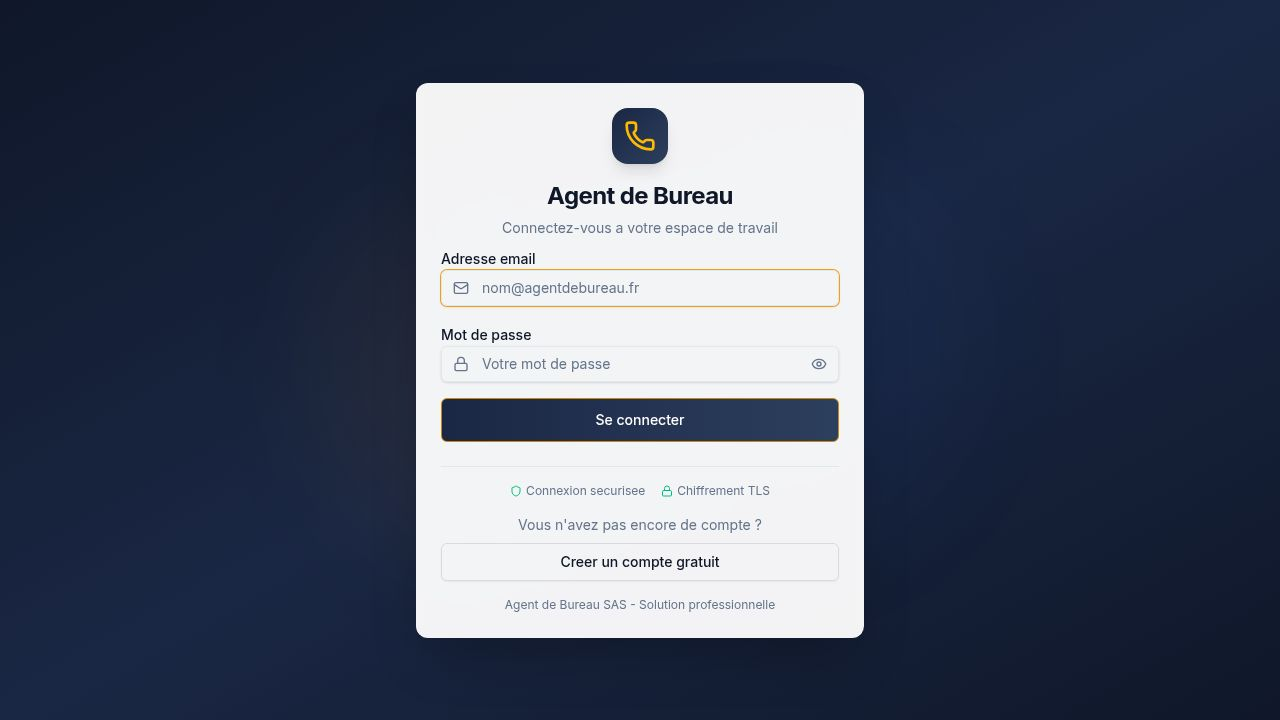
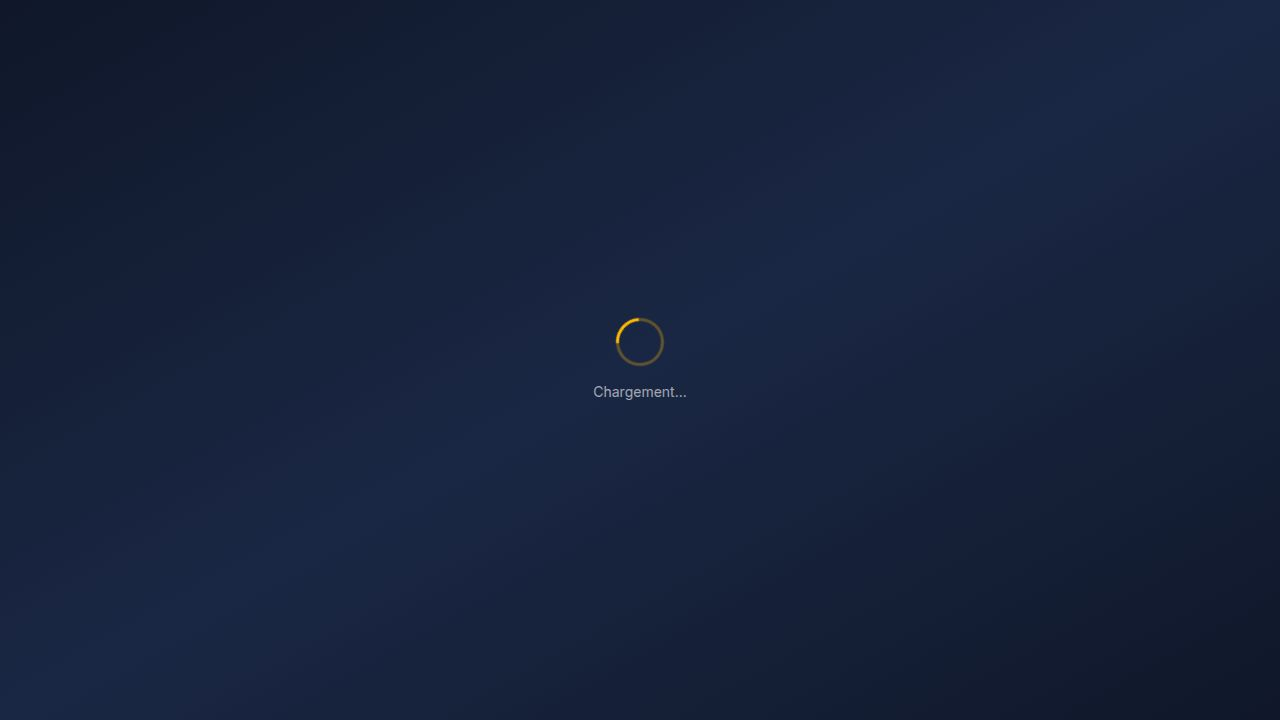
Add robust error handling and persistent notification settings
Implement comprehensive error handling for calendar and checkins modules, add `credentials: "include"` to analytics API call, and persist notification preferences using localStorage.

Replit-Commit-Author: Agent
Replit-Commit-Session-Id: 1882654e-2656-481d-99a5-51973b69821f
Replit-Commit-Checkpoint-Type: full_checkpoint
Replit-Commit-Event-Id: 98d777a2-f381-4ccc-af07-fb68a57dc891
Replit-Commit-Screenshot-Url: https://storage.googleapis.com/screenshot-production-us-central1/a494de1d-e734-41b7-8901-44e78c008ea7/1882654e-2656-481d-99a5-51973b69821f/Ux9pV9t
Replit-Helium-Checkpoint-Created: true

Changed region(s): [[0.3125, 0.0917, 0.6875, 0.8861]]

diff --git a/artifacts/buro-ajani/src/pages/calendar.tsx b/artifacts/buro-ajani/src/pages/calendar.tsx
@@ -1,4 +1,5 @@
 import { useState, useMemo, useCallback, useEffect, useRef } from "react";
+import { useToast } from "@/hooks/use-toast";
 import { Card, CardContent, CardHeader, CardTitle } from "@/components/ui/card";
 import { Button } from "@/components/ui/button";
 import { Badge } from "@/components/ui/badge";
@@ -110,6 +111,7 @@ function ContactAutocomplete({
     queryKey: ["contacts-search", search],
     queryFn: async () => {
       const res = await fetch(`${baseUrl}/api/contacts?search=${encodeURIComponent(search)}&limit=8`, { credentials: "include" });
+      if (!res.ok) throw new Error("Erreur recherche contacts");
       return res.json();
     },
     enabled: search.length >= 1,
@@ -582,6 +584,7 @@ function EventDetailDialog({
 
 export default function CalendarPage() {
   const queryClient = useQueryClient();
+  const { toast } = useToast();
   const [currentDate, setCurrentDate] = useState(new Date());
   const [selectedDate, setSelectedDate] = useState<Date | null>(null);
   const [view, setView] = useState<"mois" | "semaine" | "jour">("semaine");
@@ -598,13 +601,18 @@ export default function CalendarPage() {
   const startRange = new Date(year, month - 1, 1).toISOString();
   const endRange = new Date(year, month + 2, 0).toISOString();
 
-  const { data } = useQuery({
+  const { data, isError } = useQuery({
     queryKey: ["calendar-events", startRange, endRange],
     queryFn: async () => {
       const res = await fetch(`${baseUrl}/api/calendar/events?start=${startRange}&end=${endRange}`, { credentials: "include" });
+      if (!res.ok) throw new Error("Erreur chargement calendrier");
       return res.json();
     },
   });
+
+  useEffect(() => {
+    if (isError) toast({ title: "Erreur", description: "Impossible de charger les evenements", variant: "destructive" });
+  }, [isError]);
 
   const createMutation = useMutation({
     mutationFn: async (eventData: any) => {
@@ -612,13 +620,16 @@ export default function CalendarPage() {
         method: "POST", headers: { "Content-Type": "application/json" }, credentials: "include",
         body: JSON.stringify(eventData),
       });
+      if (!res.ok) throw new Error("Erreur creation");
       return res.json();
     },
     onSuccess: () => {
       queryClient.invalidateQueries({ queryKey: ["calendar-events"] });
       setShowEventForm(false);
       setEditingEvent(null);
+      toast({ title: "Evenement cree" });
     },
+    onError: () => toast({ title: "Erreur", description: "Impossible de creer l'evenement", variant: "destructive" }),
   });
 
   const updateMutation = useMutation({
@@ -627,24 +638,30 @@ export default function CalendarPage() {
         method: "PATCH", headers: { "Content-Type": "application/json" }, credentials: "include",
         body: JSON.stringify(data),
       });
+      if (!res.ok) throw new Error("Erreur mise a jour");
       return res.json();
     },
     onSuccess: () => {
       queryClient.invalidateQueries({ queryKey: ["calendar-events"] });
       setShowEventForm(false);
       setEditingEvent(null);
+      toast({ title: "Evenement mis a jour" });
     },
+    onError: () => toast({ title: "Erreur", description: "Impossible de modifier l'evenement", variant: "destructive" }),
   });
 
   const deleteMutation = useMutation({
     mutationFn: async (id: number) => {
-      await fetch(`${baseUrl}/api/calendar/events/${id}`, { method: "DELETE", credentials: "include" });
+      const res = await fetch(`${baseUrl}/api/calendar/events/${id}`, { method: "DELETE", credentials: "include" });
+      if (!res.ok) throw new Error("Erreur suppression");
     },
     onSuccess: () => {
       queryClient.invalidateQueries({ queryKey: ["calendar-events"] });
       setShowEventDetail(false);
       setViewingEvent(null);
+      toast({ title: "Evenement supprime" });
     },
+    onError: () => toast({ title: "Erreur", description: "Impossible de supprimer l'evenement", variant: "destructive" }),
   });
 
   const allEvents = useMemo(() => {

diff --git a/artifacts/buro-ajani/src/pages/checkins.tsx b/artifacts/buro-ajani/src/pages/checkins.tsx
@@ -179,6 +179,7 @@ export default function CheckinsPage() {
         toast({ title: "Depart enregistre", description: "Bonne fin de journee !" });
         invalidateAll();
       },
+      onError: () => toast({ title: "Erreur", description: "Impossible d'enregistrer le depart", variant: "destructive" }),
     });
   };
 
@@ -192,6 +193,7 @@ export default function CheckinsPage() {
         toast({ title: "Pause commencee", description: "Votre session est en pause" });
         invalidateAll();
       },
+      onError: () => toast({ title: "Erreur", description: "Impossible de mettre en pause", variant: "destructive" }),
     });
   };
 
@@ -206,6 +208,7 @@ export default function CheckinsPage() {
         toast({ title: "Reprise", description: "Votre session est active" });
         invalidateAll();
       },
+      onError: () => toast({ title: "Erreur", description: "Impossible de reprendre la session", variant: "destructive" }),
     });
   };
 
@@ -215,6 +218,7 @@ export default function CheckinsPage() {
         toast({ title: "Pointage supprime" });
         invalidateAll();
       },
+      onError: () => toast({ title: "Erreur", description: "Impossible de supprimer le pointage", variant: "destructive" }),
     });
   };
 

diff --git a/artifacts/buro-ajani/src/pages/analytics.tsx b/artifacts/buro-ajani/src/pages/analytics.tsx
@@ -79,6 +79,7 @@ export default function Analytics() {
       const resp = await fetch(`${apiBase}/ai/analyze`, {
         method: "POST",
         headers: { "Content-Type": "application/json" },
+        credentials: "include",
         body: JSON.stringify({ period }),
       });
       if (!resp.ok) throw new Error(`Erreur ${resp.status}`);

diff --git a/replit.md b/replit.md
@@ -48,6 +48,8 @@ The application features a French UI with a deep navy and warm amber color schem
 - **Universal Document Management System:** Centralized document storage with entity linking (contacts, tasks, messages, invoices, etc.). Features: drag-drop upload, multi-file batch upload (up to 20), AI-powered analysis, download, search/filter by module and category, per-entity document panels, and storage stats dashboard. Backend routes at `/api/documents/*`. Reusable `FileUpload` and `DocumentsPanel` React components. DB table `documents` with full-text search indexes.
 - **AI Intelligent Import System:** Smart document-to-data pipeline. Upload any file (Excel, CSV, Word, PDF) → AI reads and extracts structured rows → shows "what I understood" confirmation with per-row validation/error/duplicate detection → user approves → AI writes data to target module (Contacts, Tasks). Endpoints: `POST /api/documents/process` (AI extraction with MIME/size/scan validation), `POST /api/documents/import` (write to module with server-side field validation, 500-row limit, sanitization). Frontend at `/import`.
 - **Navigation Safety:** Sidebar active state uses `startsWith` for sub-route highlighting. CentralIntelligence links validated against `VALID_ROUTES` list to prevent 404s from removed modules.
+- **Notification Preferences Persistence:** Settings notification tab uses localStorage with `agent-bureau-notif-prefs` key. All 6 toggle switches are state-managed with a "Save" button. Preferences survive page refresh.
+- **Comprehensive Error Handling:** Calendar mutations (create/update/delete) have `res.ok` guards, success toasts, and `onError` callbacks. Checkins mutations (checkout, pause, resume, delete) have `onError` handlers. Analytics AI analysis fetch includes `credentials: "include"`. Calendar events query surfaces errors via toast on `isError`. ContactAutocomplete has `res.ok` check.
 - **Auto Bank/Payment/Invoice System:** Organisations configure bank details. Payment recording endpoint auto-updates invoice status, generates professional HTML invoices, auto-sends via Resend email.
 - **Customer Account Health System (Comptes Clients):** Automated financial health monitoring for all customer accounts. Includes health score, risk classification, aging analysis, credit limit enforcement, payment terms, automatic payment reminder emails, and internal notifications.
 - **Data Protection Monitor (Automated):** Background service that monitors backup status, detects issues, and escalates critical issues to super admins.